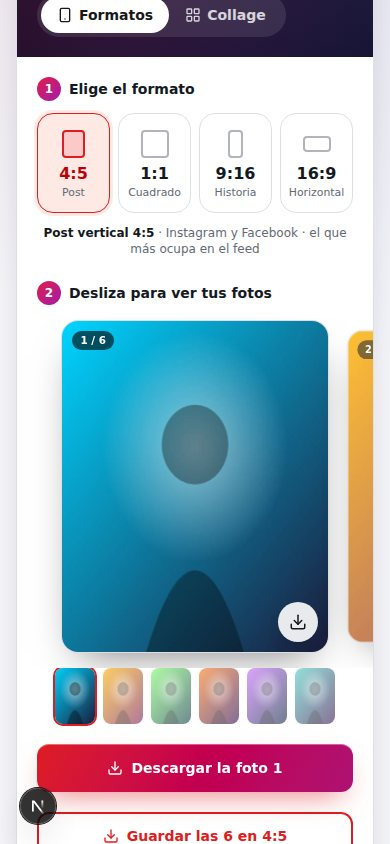
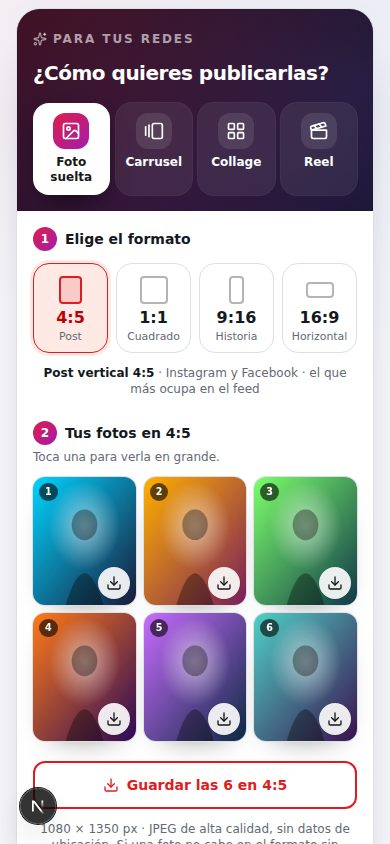
Para tus redes: capturas del simulador en celular y computador y de la versión móvil simplificada
Claude-Session: https://claude.ai/code/session_015sFCdzMkc8c7GNsiUNJXDD

diff --git a/para-tus-redes/index.html b/para-tus-redes/index.html
@@ -16,8 +16,12 @@ img{width:100%;display:block}
 </style></head><body><main>
 <h1>«Para tus redes» · cuatro maneras de publicar</h1>
 <p class="b">La herramienta que el cliente ve en su galería cuando le entregan sus fotos. Abre con una pregunta, <b>«¿Cómo quieres publicarlas?»</b>, y cuatro tarjetas: <b>Foto suelta</b>, <b>Carrusel</b>, <b>Collage</b> y <b>Reel</b>. Izquierda: celular. Derecha: computador. Capturas con fotos de muestra. Para probarla en vivo: <b>Admin → Vista del cliente → etapa «Entregada» → «Ver Para tus redes como página web»</b>.</p>
-<h2>0 · El menú: cuatro tarjetas</h2>
-<div class="fila"><figure><div class="cel"><img src="capturas/movil-0-menu.jpg"></div><figcaption>Celular: 2 × 2</figcaption></figure><figure><div class="web"><img src="capturas/web-0-menu.jpg"></div><figcaption>Web: las cuatro en fila</figcaption></figure></div>
+<h2>El recorrido completo en el simulador: celular o computador</h2>
+<p class="b"><b>Admin → Vista del cliente</b> tiene un selector <b>Celular / Computador</b> junto a las 7 etapas. Cada pantalla (reserva, galería, perfil) se carga como la página real dentro de un marco del ancho del dispositivo, 390 px o 1280 px, así que se acomoda exactamente como la ve el cliente. «abrir aparte ↗» la abre sola en otra pestaña.</p>
+<figure><div class="web"><img src="capturas/sim-celular.jpg"></div><figcaption>Simulador en modo Celular (etapa «Entregada»)</figcaption></figure>
+<figure style="margin-top:18px"><div class="web"><img src="capturas/sim-computador.jpg"></div><figcaption>Simulador en modo Computador</figcaption></figure>
+<h2>0 · El menú: cuatro opciones</h2>
+<div class="fila"><figure><div class="cel"><img src="capturas/movil-0-menu.jpg"></div><figcaption>Celular: una fila compacta</figcaption></figure><figure><div class="web"><img src="capturas/web-0-menu.jpg"></div><figcaption>Web: las cuatro en fila</figcaption></figure></div>
 <h2>A · Carrusel: varias fotos para deslizar</h2>
 <p class="b">Se tocan las fotos en el orden en que van (de 2 a 20, el máximo de Instagram). La vista previa es una publicación de Instagram que se desliza con el dedo, con su contador y sus puntitos. Formato 4:5 o 1:1, y portada opcional: un collage con las tres primeras. «Guardar el carrusel» las baja numeradas (<code>carrusel-01</code>, <code>02</code>…) para que la carpeta del celular las deje en orden; en el celular abre el menú de compartir.</p>
 <div class="fila"><figure><div class="cel"><img src="capturas/movil-5-carrusel.jpg"></div><figcaption>Celular: la vista previa arriba</figcaption></figure><figure><div class="web"><img src="capturas/web-5-carrusel.jpg"></div><figcaption>Web: pasos a la izquierda, publicación a la derecha</figcaption></figure></div>
@@ -29,9 +33,9 @@ img{width:100%;display:block}
 <p class="b">Siguen como antes: cada foto en el formato de cada red (carrusel deslizable en el celular, cuadrícula en el computador) y collages de 3, 4 o 5 fotos.</p>
 <h2>1 · Foto suelta · Post vertical 4:5 (Instagram y Facebook)</h2>
 <div class="fila"><figure><div class="cel"><img src="capturas/movil-1-post.jpg"></div><figcaption>Celular</figcaption></figure><figure><div class="web"><img src="capturas/web-1-post.jpg"></div><figcaption>Web</figcaption></figure></div>
-<h2>1b · En el celular se desliza: todas las fotos ya convertidas, una tras otra</h2>
-<p class="b">Las fotos vecinas se asoman a los lados para que se note que se puede deslizar. Las miniaturas de abajo van sincronizadas: al tocar una, esa foto pasa al centro. El botón grande descarga la foto que está en el centro; «Guardar las N» las guarda todas en ese formato. En el computador, en cambio, se ven todas en cuadrícula con su botón «Descargar» debajo.</p>
-<div class="fila"><figure><div class="cel"><img src="capturas/movil-1b-miniatura.jpg"></div><figcaption>Celular: tocando la miniatura 3</figcaption></figure></div>
+<h2>1b · Tocar una foto la abre en grande</h2>
+<p class="b">En el celular ya no hay un carrusel de fotos enormes: todas las vistas previas van pequeñas, en cuadrícula (3 por fila, 4 si son 9:16), con un botón de descarga en la esquina. Al tocar una se abre en grande, con flechas para pasar a la siguiente y su botón «Descargar».</p>
+<div class="fila"><figure><div class="cel"><img src="capturas/movil-1b-ampliada.jpg"></div><figcaption>Celular: foto ampliada</figcaption></figure></div>
 <h2>2 · Historia 9:16 (Historias, Reels, TikTok)</h2>
 <div class="fila"><figure><div class="cel"><img src="capturas/movil-2-historia.jpg"></div><figcaption>Celular</figcaption></figure><figure><div class="web"><img src="capturas/web-2-historia.jpg"></div><figcaption>Web</figcaption></figure></div>
 <h2>3 · Horizontal 16:9: la foto vertical va entera sobre un fondo desenfocado de ella misma</h2>
